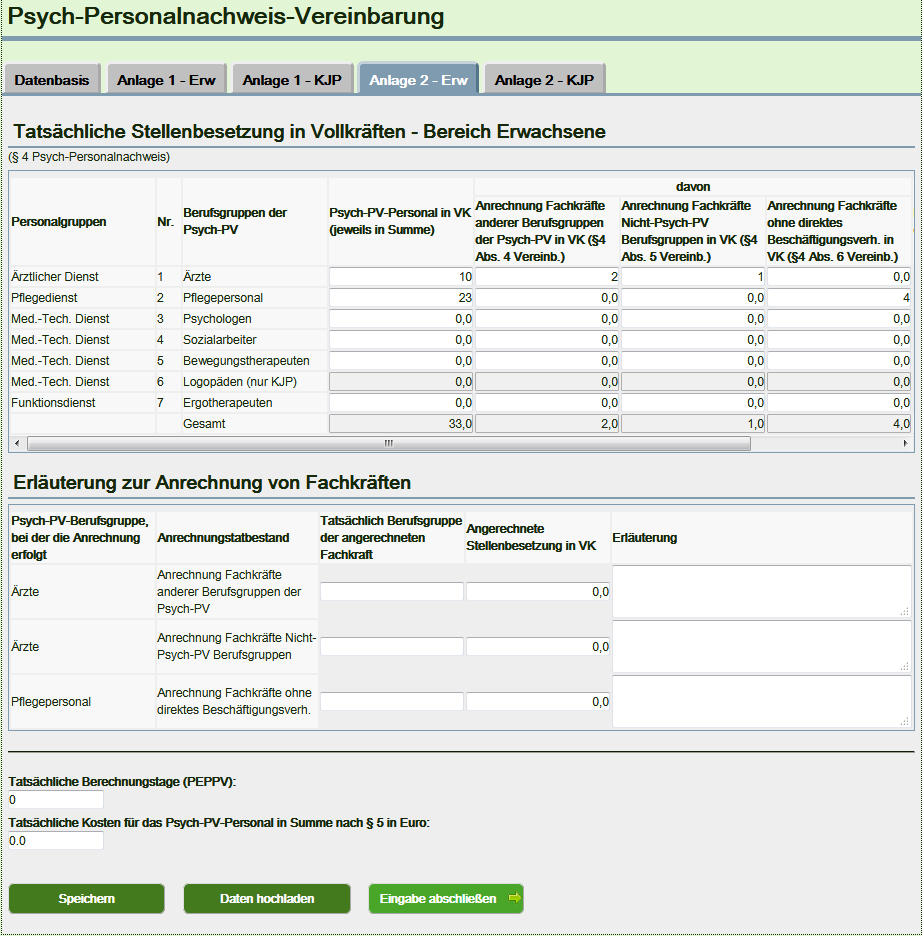
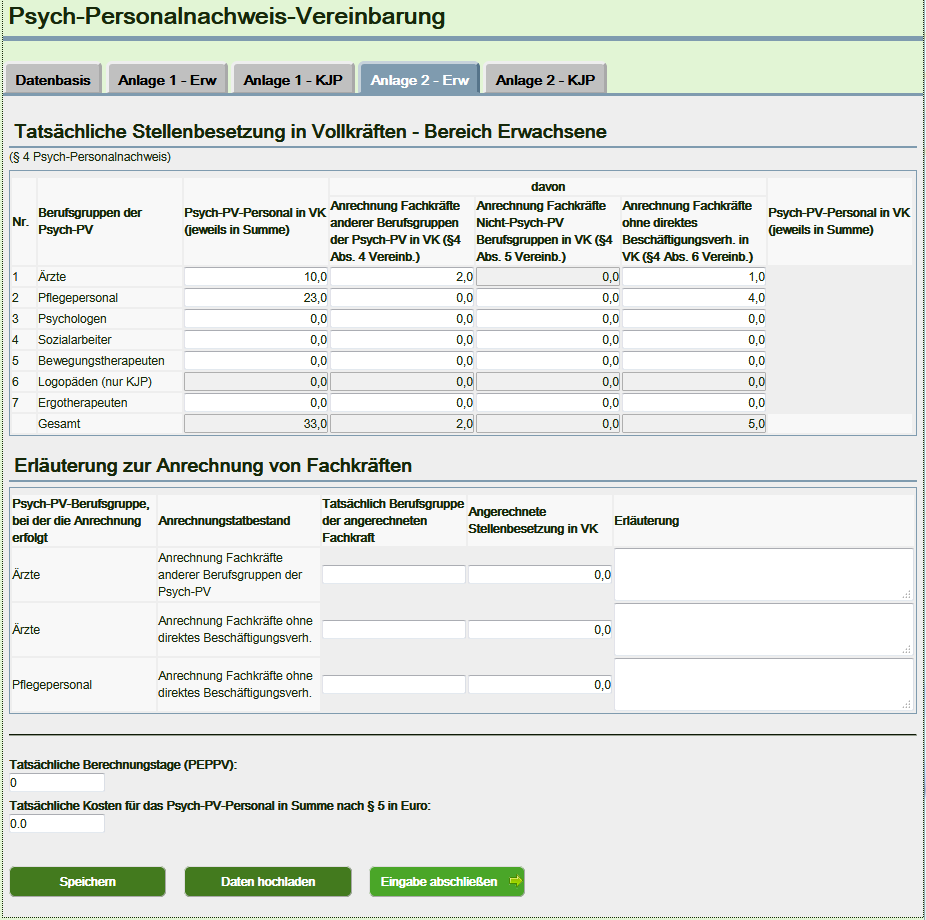
PsyStaff - wip manual

diff --git a/DataPortal/src/main/java/org/inek/dataportal/feature/psychstaff/backingbean/EditPsyStaff.java b/DataPortal/src/main/java/org/inek/dataportal/feature/psychstaff/backingbean/EditPsyStaff.java
@@ -42,6 +42,7 @@ import org.inek.dataportal.feature.psychstaff.entity.StaffProof;
 import org.inek.dataportal.feature.psychstaff.entity.StaffProofAgreed;
 import org.inek.dataportal.feature.psychstaff.entity.StaffProofDocument;
 import org.inek.dataportal.feature.psychstaff.entity.StaffProofEffective;
+import org.inek.dataportal.feature.psychstaff.entity.StaffProofExplanation;
 import org.inek.dataportal.feature.psychstaff.enums.PsychType;
 import org.inek.dataportal.feature.psychstaff.facade.PsychStaffFacade;
 import org.inek.dataportal.helper.Utils;
@@ -95,7 +96,7 @@ public class EditPsyStaff extends AbstractEditController implements Serializable
             save(false);
         }
     }
-    
+
     @Override
     protected String getOutcome() {
         return "";
@@ -170,7 +171,7 @@ public class EditPsyStaff extends AbstractEditController implements Serializable
 
     private void setYearToFirstAvailable(StaffProof staffProof) {
         List<Integer> years = getYears(staffProof);
-        if (years.size() > 0){
+        if (years.size() > 0) {
             staffProof.setYear(years.get(0));
         }
     }
@@ -179,25 +180,24 @@ public class EditPsyStaff extends AbstractEditController implements Serializable
         setTopicVisibility();
         ensureStaffProofsAgreed(_staffProof);
         ensureStaffProofsEffective(_staffProof);
-        _staffProof.setYear(0);
     }
 
     public List<Integer> getYears() {
         return getYears(_staffProof);
     }
-    
+
     public List<Integer> getYears(StaffProof staffProof) {
         if (staffProof == null) {
             return new ArrayList<>();
         }
-        
+
         List<Integer> existingYears = _psychStaffFacade.getExistingYears(staffProof.getIk());
 
         List<Integer> availableYears = new ArrayList<>();
         IntStream.rangeClosed(2016, 2019) // as of the contract
                 .filter(y -> y == staffProof.getYear() || !existingYears.contains(y))
                 .forEach(y -> availableYears.add(y));
-        
+
         return availableYears;
     }
 
@@ -673,8 +673,7 @@ public class EditPsyStaff extends AbstractEditController implements Serializable
                 return;
         }
 
-        _sessionController.setScript("alert('hallo');");
-        Utils.showMessageInBrowser(msg);
+        _sessionController.alertClient(msg);
     }
 
     public void countChanged(StaffProofEffective item, int key) {
@@ -698,5 +697,43 @@ public class EditPsyStaff extends AbstractEditController implements Serializable
         }
         _staffProof.addMissingStaffProofExplanation(item.getPsychType(), item.getOccupationalCategory(), key);
 
+    }
+
+    public void adjustLines(StaffProofExplanation explanation) {
+        if (explanation.getDeductedFullVigor() == 0) {
+            return;
+        }
+        PsychType type = explanation.getPsychType();
+        OccupationalCategory occupationalCategory = explanation.getOccupationalCategory();
+        int key = explanation.getDeductedSpecialistId();
+        StaffProofEffective staffProofEffective = _staffProof
+                .getStaffProofsEffective(type)
+                .stream()
+                .filter(e -> e.getOccupationalCategory().getId() == occupationalCategory.getId())
+                .findAny()
+                .get();
+        double deductionCount;
+        switch (key) {
+            case 4:
+                deductionCount = staffProofEffective.getStaffingDeductionPsych();
+                break;
+            case 5:
+                deductionCount = staffProofEffective.getStaffingDeductionNonPsych();
+                break;
+            case 6:
+                deductionCount = staffProofEffective.getStaffingDeductionOther();
+                break;
+            default:
+                deductionCount = 0;
+        }
+        double sum = _staffProof
+                .getStaffProofExplanations(type)
+                .stream()
+                .filter(e -> e.getOccupationalCategory().getId() == occupationalCategory.getId() && e.getDeductedSpecialistId() == key)
+                .mapToDouble(e -> e.getDeductedFullVigor())
+                .sum();
+        if (deductionCount - sum > 0) {
+            _staffProof.addStaffProofExplanation(type, occupationalCategory, key);
+        }
     }
 }

diff --git a/DataPortal/src/main/java/org/inek/dataportal/feature/psychstaff/entity/StaffProof.java b/DataPortal/src/main/java/org/inek/dataportal/feature/psychstaff/entity/StaffProof.java
@@ -481,6 +481,15 @@ public class StaffProof implements Serializable, StatusEntity {
         return true;
     }
 
+    public void addStaffProofExplanation(PsychType type, OccupationalCategory occupationalCategory, int deductedSpecialistId) {
+        StaffProofExplanation explanation = new StaffProofExplanation();
+        explanation.setStaffProofMasterId(_id);
+        explanation.setPsychType(type);
+        explanation.setOccupationalCategory(occupationalCategory);
+        explanation.setDeductedSpecialistId(deductedSpecialistId);
+        _staffProofExplanation.add(explanation);
+    }
+
     public void removeStaffProofExplanation(PsychType type, OccupationalCategory occupationalCategory, int deductedSpecialistId) {
         _staffProofExplanation.removeIf(a -> a.getPsychType() == type
                 && a.getOccupationalCategoryId() == occupationalCategory.getId()
